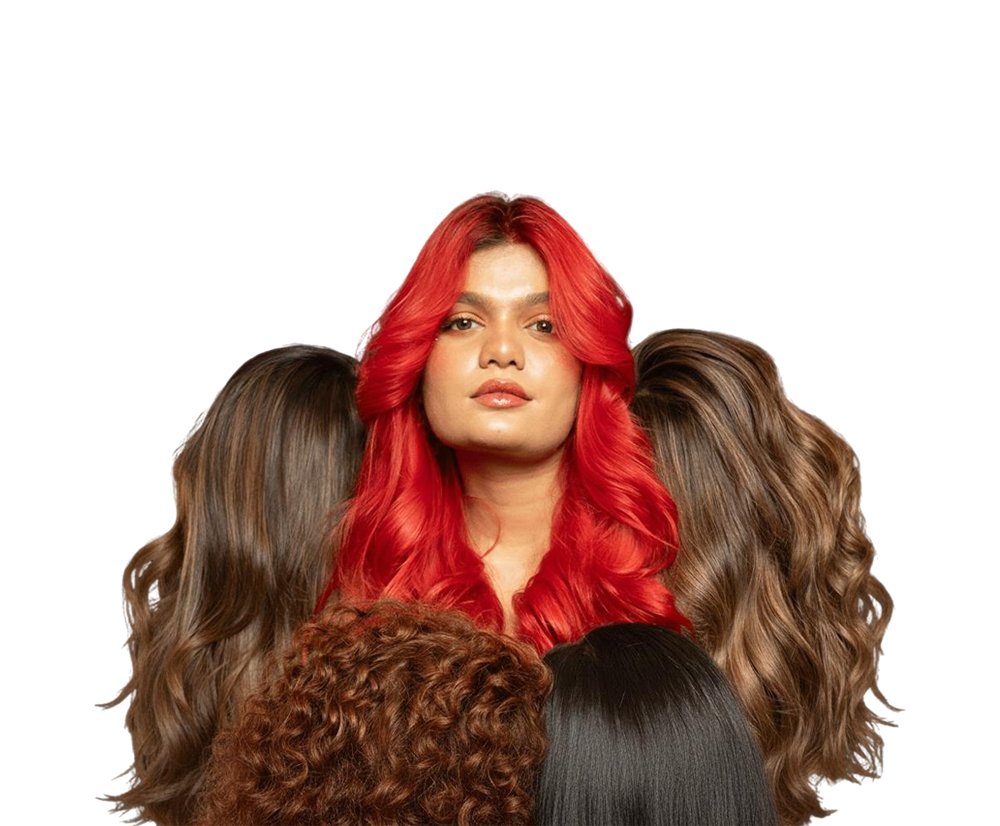
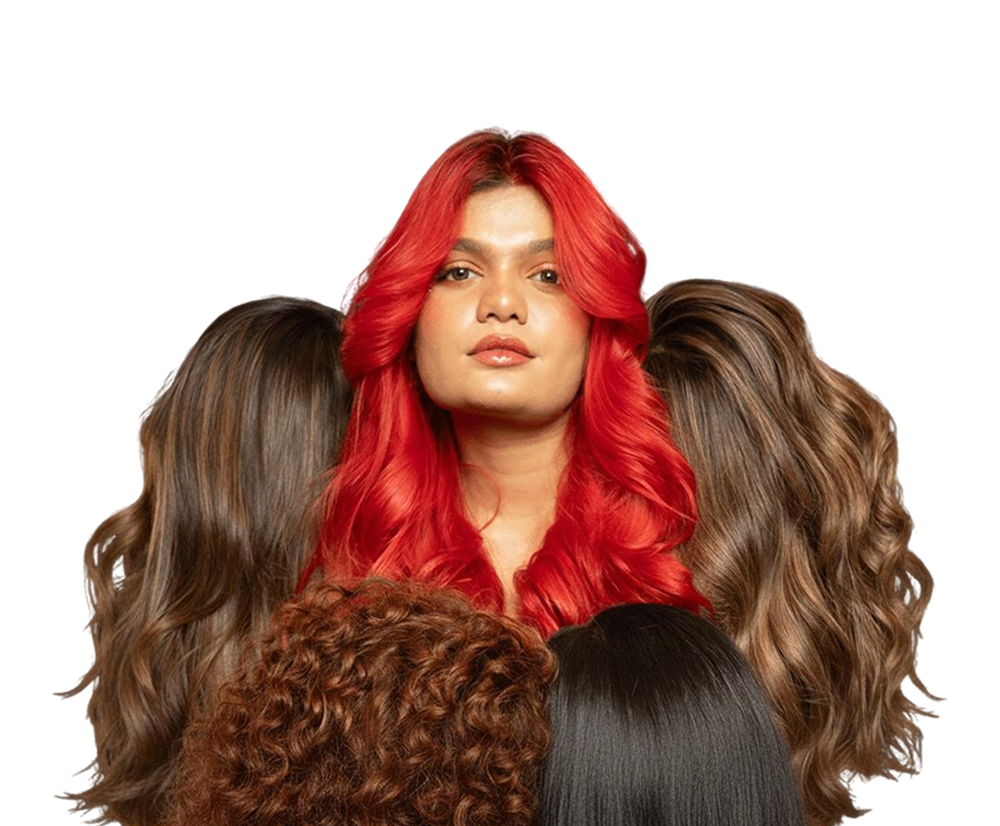
add form
Frenyz Note----------

shift a bit upside hero photos
remove - Welcome to frenyz > Redefining Fashion & Grooming

in hero section - add call button beside menu (take ref from menu bar)

appointment to "Online Appointment"

pop-up - data - freny photo - take from teams

pop up function on frenyzsalon@gmail.com - claim now

Be a part of Frenyz!
Book your membership here.

Claim Now to "Book Now"

hero - instagram - facebook - color to white

HAIR | MAKEUP | SKIN |  NAIL & TATTOO | ACADEMY // rename all caps //

Remove - *Prices may vary after consultation.

remove About in "About Frenyz Salon"

remove dotted lines - when clicked zoom in

Gallery to > Celebrities
Moments of styling those who live in the spotlight, crafted with precision and trust.

backside text - FRENYZ text

remove Copyright text

diff --git a/index.html b/index.html
@@ -261,7 +261,6 @@
   <body>
     <!-- Preloader start -->
     <div id="preloader"></div>
-
     <div
       class="modal fade"
       id="myModal"
@@ -281,7 +280,7 @@
             <!-- Left Image -->
             <div class="promo-image-section">
               <img
-                src="images/services/charmi.png"
+                src="images/teams/freny-photo.png"
                 class="img-fluid"
                 alt="Promo"
               />
@@ -289,24 +288,37 @@
 
             <!-- Right Content -->
             <div class="promo-form-section p-4">
-              <h3 class="fw-bold mb-2">Ladies First,<br />Always!</h3>
-
-              <p class="mb-3">
-                Specially for Women – Flat 25% OFF on our Annual Memberships.
-              </p>
+              <h3 class="fw-bold mb-2">Be a part of Frenyz!</h3>
+              <p class="mb-3">Book your membership here.</p>
 
               <form id="enquiryForm">
                 <div class="mb-3">
                   <input
                     type="tel"
+                    id="phone"
                     class="form-control"
                     placeholder="Phone Number"
                     required
+                    maxlength="10"
                   />
+                  <div id="phoneError" class="text-danger small mt-1 d-none">
+                    Please enter a valid 10-digit phone number
+                  </div>
                 </div>
 
-                <button class="btn btn-dark w-100 py-2 fw-semibold">
-                  Claim Now
+                <button
+                  type="submit"
+                  id="submitBtn"
+                  class="btn btn-dark w-100 py-2 fw-semibold"
+                >
+                  <span id="btnText">Claim Now</span>
+                  <span
+                    id="btnLoader"
+                    class="spinner-border spinner-border-sm ms-2 d-none"
+                    role="status"
+                  >
+                    <span class="visually-hidden">Loading...</span>
+                  </span>
                 </button>
               </form>
             </div>
@@ -361,7 +373,7 @@
                       target="_blank"
                       role="button"
                     >
-                      Appointment
+                      Online Appointment
                       <small>
                         <i class="fa-solid fa-calendar-check"> </i> </small
                     ></a>
@@ -386,7 +398,7 @@
             <div class="banner-col">
               <div class="banner-col-content">
                 <!-- <h5 class="text-white">Welcome to Frenyz World</h5> -->
-                <h1>Welcome to Frenyz World</h1>
+                <h1>Redefining Fashion & Grooming</h1>
                 <p>
                   Glamour, expertise, & elegance united at Vadodara's premier
                   unisex salon. With our expertise, we craft beauty stories that
@@ -400,6 +412,9 @@
                   role="button"
                   >Menu <small><i class="fa-solid fa-download"></i></small
                 ></a>
+                <a href="tel:+91 8560024060" class="btn btn-primary theme-btn"
+                  ><i class="fa-solid fa-phone"> </i
+                ></a>
               </div>
             </div>
           </div>
@@ -409,12 +424,12 @@
         <ul>
           <li>
             <a href="https://www.facebook.com/frenyzsalon/" target="_blank"
-              ><i class="fa-brands fa-facebook-f"></i
+              ><i class="fa-brands fa-facebook-f" style="color: white"></i
             ></a>
           </li>
           <li>
             <a href="https://www.instagram.com/frenyzsalon/" target="_blank"
-              ><i class="fa-brands fa-instagram"></i
+              ><i class="fa-brands fa-instagram" style="color: white"></i
             ></a>
           </li>
         </ul>
@@ -460,7 +475,7 @@
                   class="img-fluid"
                 />
               </div>
-              <h4>Hair Services</h4>
+              <h4>HAIR</h4>
               <p>Experienced hands and attention perfecting your hair.</p>
               <!-- <a
                 class="btn btn-primary theme-btn"
@@ -490,7 +505,7 @@
                   class="img-fluid"
                 />
               </div>
-              <h4>Makeup Artistry</h4>
+              <h4>MAKEUP</h4>
               <p>
                 Makeup is a means to boost self-confidence and self-expression.
               </p>
@@ -522,7 +537,7 @@
                   class="img-fluid"
                 />
               </div>
-              <h4>Skin Symphony</h4>
+              <h4>SKIN</h4>
               <p>
                 Top products, expert care ensuring smooth, high - quality
                 services.
@@ -555,7 +570,7 @@
                   class="img-fluid"
                 />
               </div>
-              <h4>Nails & Tattoos</h4>
+              <h4>NAIL & TATTOO</h4>
               <p>
                 Indulge in the ultimate nail care experience with our expert
                 service.
@@ -588,7 +603,7 @@
                   class="img-fluid"
                 />
               </div>
-              <h4>Academy</h4>
+              <h4>ACADEMY</h4>
               <p>
                 Elevate your passion, refine your skills, join us in the pursuit
                 of beauty.
@@ -598,9 +613,9 @@
               > -->
             </div>
           </div>
-          <small style="font-size: 10px" class="text-center"
+          <!-- <small style="font-size: 10px" class="text-center"
             >*Prices may vary after consultation.</small
-          >
+          > -->
         </div>
       </div>
     </section>
@@ -652,7 +667,7 @@
             >
               <div class="title-col">
                 <span>About</span>
-                <h2>About Frenyz Salon</h2>
+                <h2>Frenyz Salon</h2>
               </div>
               <p>
                 “Rooted in the unwavering passion and dedication of a
@@ -688,11 +703,11 @@
         <div class="row justify-content-center">
           <div class="col-lg-8">
             <div class="title-col text-center">
-              <span>Gallery</span>
-              <h2>Gallery</h2>
+              <span>FRENYZ</span>
+              <h2>Celebrities</h2>
               <p>
-                Lorem ipsum dolor sit amet consectetur adipisicing elit.
-                Voluptas voluptatum dignissimos nobis asperiores eius.
+                Moments of styling those who live in the spotlight, crafted with
+                precision and trust.
               </p>
             </div>
           </div>
@@ -1379,7 +1394,7 @@
       </div>
       <div class="copyright">
         <p>
-          Copyright ©
+          ©
           <script>
             document.write(new Date().getFullYear());
           </script>
@@ -1517,6 +1532,88 @@
               },
             },
           ],
+        });
+      });
+    </script>
+    <script>
+      document.addEventListener("DOMContentLoaded", function () {
+        const form = document.getElementById("enquiryForm");
+        const phoneInput = document.getElementById("phone");
+        const phoneError = document.getElementById("phoneError");
+        const submitBtn = document.getElementById("submitBtn");
+        const btnText = document.getElementById("btnText");
+        const btnLoader = document.getElementById("btnLoader");
+
+        // Only allow numbers in phone input
+        phoneInput.addEventListener("input", function (e) {
+          this.value = this.value.replace(/[^0-9]/g, "");
+        });
+
+        form.addEventListener("submit", async function (e) {
+          e.preventDefault();
+
+          const phone = phoneInput.value.trim();
+
+          // Validate phone
+          if (!/^[0-9]{10}$/.test(phone)) {
+            phoneError.classList.remove("d-none");
+            phoneInput.classList.add("is-invalid");
+            return;
+          } else {
+            phoneError.classList.add("d-none");
+            phoneInput.classList.remove("is-invalid");
+          }
+
+          // Button loading state
+          submitBtn.disabled = true;
+          btnText.textContent = "Submitting...";
+          btnLoader.classList.remove("d-none");
+
+          const data = {
+            emails: ["teammetadc@gmail.com"],
+            subject: "New Frenyz Membership Enquiry",
+            message: `
+                        <h2>New Membership Enquiry</h2>
+                        <p><strong>Phone Number:</strong> ${phone}</p>
+                        <p>Source: Frenyz Website</p>
+                    `,
+          };
+
+          try {
+            const response = await fetch(
+              "https://mailer-5x4h33dpla-uc.a.run.app",
+              {
+                method: "POST",
+                headers: {
+                  "Content-Type": "application/json",
+                },
+                body: JSON.stringify(data),
+              }
+            );
+
+            if (!response.ok) {
+              throw new Error(`Failed to send enquiry: ${response.status}`);
+            }
+
+            // Success message
+            alert("Thank you! We will contact you shortly.");
+            form.reset();
+
+            // Close modal
+            const modalElement = document.getElementById("myModal");
+            const modalInstance = bootstrap.Modal.getInstance(modalElement);
+            if (modalInstance) {
+              modalInstance.hide();
+            }
+          } catch (error) {
+            console.error("Error:", error);
+            alert("Something went wrong. Please try again later.");
+          } finally {
+            // Reset button state
+            submitBtn.disabled = false;
+            btnText.textContent = "Claim Now";
+            btnLoader.classList.add("d-none");
+          }
         });
       });
     </script>

diff --git a/css/style.css b/css/style.css
@@ -728,8 +728,11 @@ input:-moz-placeholder {
 }
 .about-img {
   position: relative;
+  display: flex;
+  justify-content: center;
+  align-items: center;
 }
-.about-img:before {
+/* .about-img:before {
   content: "";
   position: absolute;
   right: 50px;
@@ -738,7 +741,7 @@ input:-moz-placeholder {
   width: 88%;
   height: 100%;
   border: 2px dashed #dddddd;
-}
+} */
 .myvideo {
   position: absolute;
   right: 80px;
